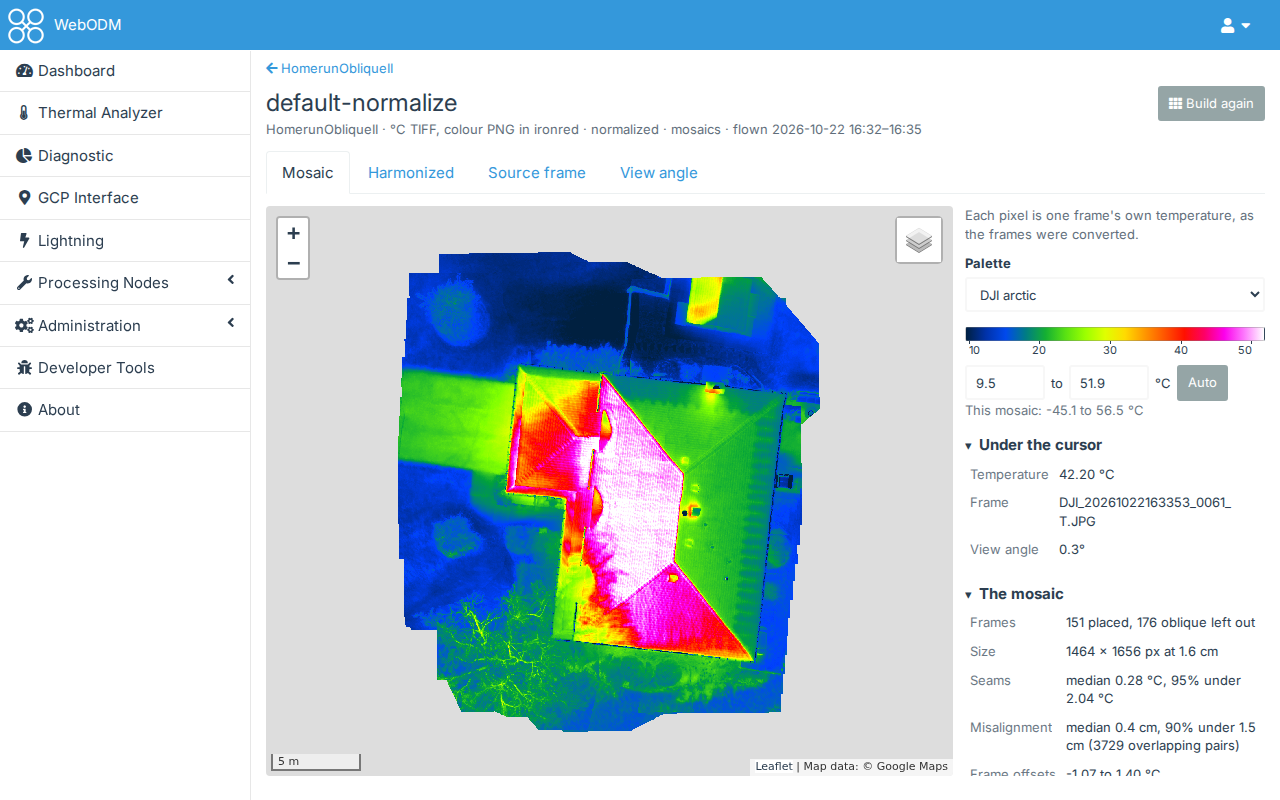
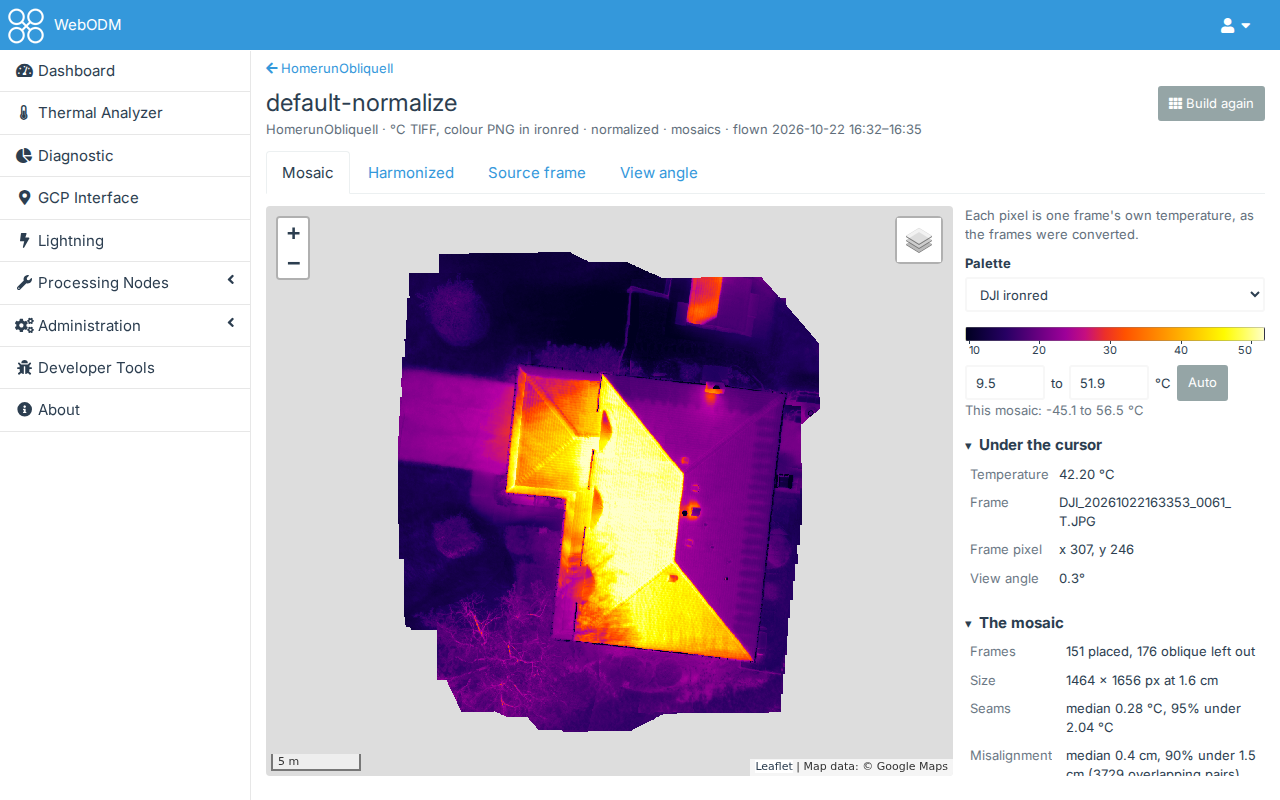
Mosaic viewer: the frame pixel under the cursor, from the mosaic's source_u and source_v bands
dji-thermal-cli writes them since 1.4.0; the point query read only bands 1 to 3. As dji-thermal-ui's
point query and readout.

diff --git a/dji-thermal/public/viewer.js b/dji-thermal/public/viewer.js
@@ -167,6 +167,7 @@
             "Outside the mosaic." : "No data here.") + "</span>";
         var rows = [["Temperature", res.temperature === null || res.temperature === undefined ? "no data" : core.formatTemp(res.temperature, unit)]];
         if (res.frame !== null && res.frame !== undefined) rows.push(["Frame", res.frame]);
+        if (res.frame_pixel) rows.push(["Frame pixel", "x " + res.frame_pixel[0] + ", y " + res.frame_pixel[1]]);
         if (res.view_angle !== null && res.view_angle !== undefined) rows.push(["View angle", core.formatNumber(res.view_angle, 1, "°")]);
         // A file name may break after its underscores
         return '<table class="table table-condensed ta-viewer-values"><tbody>' + rows.map(function (r) {

diff --git a/dji-thermal/mosaics.py b/dji-thermal/mosaics.py
@@ -429,7 +429,10 @@ def rendered(data, valid, cmap, low, high):
 
 
 def point(task, cid, tab, lon, lat):
-    """A viewer tab's values at a point: {valid, temperature, frame, frame_index, view_angle, unit, reason}"""
+    """
+    A viewer tab's values at a point: {valid, temperature, frame, frame_index, view_angle, frame_pixel, unit, reason};
+    frame_pixel: the frame's pixel it was read from (column, row; none in a mosaic built before dji-thermal-cli 1.4.0)
+    """
     from rio_tiler.errors import PointOutsideBounds
     from rio_tiler.io import COGReader
 
@@ -437,25 +440,27 @@ def point(task, cid, tab, lon, lat):
     built = result(task, cid)
     unit = built.get('unit') or 'C'
     out = {'coordinates': [lon, lat], 'valid': False, 'unit': unit, 'temperature': None, 'frame': None,
-           'frame_index': None, 'view_angle': None}
+           'frame_index': None, 'view_angle': None, 'frame_pixel': None}
     try:
         with COGReader(raster) as src:
             # Checked first: far from the mosaic, a point may be outside its projection's domain too
             west, south, east, north = src.bounds
             if not (west <= lon <= east and south <= lat <= north):
                 raise PointOutsideBounds()
-            values = src.point(lon, lat, indexes=(1, 2, 3))
+            values = src.point(lon, lat, indexes=(1, 2, 3, 4, 5) if src.dataset.count >= 5 else (1, 2, 3))
     except PointOutsideBounds:
         out['reason'] = 'outside_raster'
         return out
     finite = [v if math.isfinite(v) else None for v in (float(x) for x in values)]
-    temperature, frame, angle = finite
+    temperature, frame, angle = finite[:3]
     if temperature is not None and temperature > low_value(unit):
         out['temperature'] = temperature
     frames = built.get('frames') or []
     if frame is not None:
         out['frame_index'] = round(frame)
         out['frame'] = frames[out['frame_index']] if 0 <= out['frame_index'] < len(frames) else None
+        if len(finite) == 5 and None not in finite[3:]:
+            out['frame_pixel'] = [int(finite[3]), int(finite[4])]
     out['view_angle'] = angle
     out['valid'] = out['temperature'] is not None or out['frame'] is not None
     if not out['valid']:

diff --git a/docs/api.md b/docs/api.md
@@ -34,7 +34,7 @@ workset's id (12 hexadecimal characters).
 | POST | `.../conversions/<workset>/parent` | Sends the workset's TIFFs to the dataset's own task. |
 | GET, POST | `.../conversions/<workset>/mosaics` | The mosaics as the viewer shows them; builds them. |
 | GET | `.../mosaics/<tab>/tiles/<z>/<x>/<y>.png` | A map tile of a mosaic tab. |
-| GET | `.../mosaics/<tab>/point?lon=&lat=` | The temperature, frame and view angle at a point. |
+| GET | `.../mosaics/<tab>/point?lon=&lat=` | The temperature, frame, frame pixel (the frame's column and row) and view angle at a point. |
 | GET | `.../mosaics/<tab>/frames?lon=&lat=`, `.../frames/<index>.png` | The frames that saw a point; one frame's picture. |
 | GET, PUT, DELETE | `preferences` | Your saved workset settings (your defaults); save them; back to dji-thermal-cli's. |
 | GET, PUT | `display` | Your palette and unit, with DJI's palettes and WebODM's colour maps; save them. |

diff --git a/README.md b/README.md
@@ -152,7 +152,7 @@ over WebODM's base layers:
 - the palette (the usual ones and the DJI palettes of the images; opening in your preferred one, if they hold it) and the
   range, changed live, with the colour scale
   and **Auto** (the 2nd to 98th percentile);
-- the temperature, frame and view angle under the cursor;
+- the temperature, frame, frame pixel and view angle under the cursor;
 - a click on the map opens a window over it with the **frames that saw that point** (the mosaic's own first, the
   others in turn with the arrows), each drawn in the tab's palette and range (on View angle, the angle each of its
   pixels saw the ground at), with a crosshair on the point and its outline on the map; mosaics built before version
